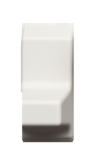
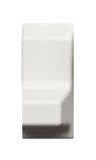
fix(panel): drawbar cap side profile from the owner's sketch

Changed region(s): [[0.2188, 0.8438, 0.7812, 0.9062], [0.2188, 0.2812, 0.25, 0.5938]]

diff --git a/assets/blender/parts_cap.py b/assets/blender/parts_cap.py
@@ -17,10 +17,11 @@ from proof_geom import box, loft
 # 0.78 x 1.79 u at the base). Black and white caps share this geometry.
 CAP_W = 0.80
 CAP_BACK, CAP_FRONT = 0.90, -0.89
-CAP_HT, CAP_HN = 0.90, 0.42  # EMPIRICAL (photos): nose about 0.47 of the block height
+CAP_HT, CAP_HN = 0.70, 0.17  # EMPIRICAL: owner's side-view sketch (2026-11-13), block
+# 108 px and nose 26 px over a 277 px cap length
 BLOCK_FRONT = 0.20  # EMPIRICAL (loose-cap photo): block is about 0.4 of the cap length
-NOSE_TOP_FRONT = -0.66  # EMPIRICAL: flat nose top ends here, then the chamfer
-NOSE_FRONT_H = 0.14  # EMPIRICAL: upright foot left under the chamfer
+NOSE_TOP_FRONT = -0.52  # EMPIRICAL (sketch): flat nose top ends here, then curves down
+NOSE_FRONT_H = 0.03  # EMPIRICAL (sketch): the nose runs out almost to a point
 LIP_L, LIP_H = 0.06, 0.10  # EMPIRICAL (loose-cap photo): base lip behind the block
 CAP_TAPER = 0.05  # EMPIRICAL: walls nearly upright (draft only)
 CAP_BEVEL = 0.12  # EMPIRICAL: reference cap corners read about 8 px rounded at 2x
@@ -52,16 +53,18 @@ def _section(y, z, top_x, left=-CAP_W / 2):
 
 def fader_cap(m, key):
     """Drawbar cap, one loft from back to front: base lip, tall upright rear block, step
-    down onto the full-width nose (the bevel makes the fillet), chamfered nose front."""
+    down onto the low full-width nose (the bevel makes the fillet), curved nose front."""
     ht, hn, e = CAP_HT, CAP_HN, 0.005
     top = (-CAP_W / 2 * (1 - CAP_TAPER), CAP_W / 2 * (1 - CAP_TAPER))
     secs = [
         (CAP_BACK, LIP_H, top),
         (CAP_BACK - LIP_L, LIP_H, top),
         (CAP_BACK - LIP_L - e, ht, top),
-        (BLOCK_FRONT, ht, top),
+        (BLOCK_FRONT + 0.06, ht, top),
+        (BLOCK_FRONT, ht - 0.06, top),  # rounded top front edge (sketch)
         (BLOCK_FRONT - e, hn, top),
         (NOSE_TOP_FRONT, hn, top),
+        (-0.72, 0.10, top),  # EMPIRICAL (sketch): curved nose front
         (CAP_FRONT, NOSE_FRONT_H, top),
     ]
     rings = [_section(y, z, tx) for y, z, tx in secs]
